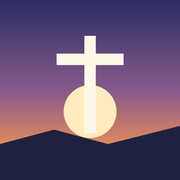
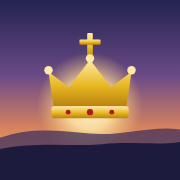
Apariencia: imágenes según el tiempo litúrgico y más livianas, color del día, modo oración, cierre sereno, Contempla más ligero, ícono nuevo y pantalla de arranque
Para volver a la versión anterior: git checkout 2e7be96 -- index.html sw.js manifest.webmanifest icon-180.png icon-192.png icon-512.png

Claude-Session: https://claude.ai/code/session_01KMgNYnLWM8dGLysxidr2UX

Changed region(s): [[0.0, 0.1667, 1.0, 0.8333]]

diff --git a/index.html b/index.html
@@ -1,4 +1,4 @@
-<!doctype html><html><head><meta name="apple-mobile-web-app-capable" content="yes"><meta name="mobile-web-app-capable" content="yes"><meta name="apple-mobile-web-app-status-bar-style" content="default"><meta name="apple-mobile-web-app-title" content="Venga tu Reino"><meta name="theme-color" content="#FFFFFF"><link rel="manifest" href="manifest.webmanifest"><link rel="apple-touch-icon" href="icon-180.png"><link rel="icon" href="icon-192.png"><title>Venga tu Reino</title><meta charset=utf8><meta name="color-scheme" content="light dark"><meta name=viewport content="width=device-width,initial-scale=1,viewport-fit=cover"><style>:root{color-scheme:light dark;box-sizing:border-box;padding-top:env(safe-area-inset-top,0px);padding-bottom:env(safe-area-inset-bottom,0px)}html{scroll-padding-top:env(safe-area-inset-top,0px)}body{margin:0;padding:0;font:14px -apple-system,BlinkMacSystemFont,sans-serif;background:#fff;color:#000}img{max-width:100%}[hidden]:not([hidden=until-found i]){display:none!important}</style></head><body>
+<!doctype html><html><head><meta name="apple-mobile-web-app-capable" content="yes"><meta name="mobile-web-app-capable" content="yes"><meta name="apple-mobile-web-app-status-bar-style" content="default"><meta name="apple-mobile-web-app-title" content="Venga tu Reino"><meta name="theme-color" content="#FFFFFF"><link rel="manifest" href="manifest.webmanifest"><link rel="apple-touch-icon" href="icon-180.png"><link rel="apple-touch-startup-image" media="(device-width: 375px) and (device-height: 667px) and (-webkit-device-pixel-ratio: 2) and (orientation: portrait)" href="splash/750x1334.png"><link rel="apple-touch-startup-image" media="(device-width: 414px) and (device-height: 896px) and (-webkit-device-pixel-ratio: 2) and (orientation: portrait)" href="splash/828x1792.png"><link rel="apple-touch-startup-image" media="(device-width: 375px) and (device-height: 812px) and (-webkit-device-pixel-ratio: 3) and (orientation: portrait)" href="splash/1125x2436.png"><link rel="apple-touch-startup-image" media="(device-width: 414px) and (device-height: 896px) and (-webkit-device-pixel-ratio: 3) and (orientation: portrait)" href="splash/1242x2688.png"><link rel="apple-touch-startup-image" media="(device-width: 390px) and (device-height: 844px) and (-webkit-device-pixel-ratio: 3) and (orientation: portrait)" href="splash/1170x2532.png"><link rel="apple-touch-startup-image" media="(device-width: 428px) and (device-height: 926px) and (-webkit-device-pixel-ratio: 3) and (orientation: portrait)" href="splash/1284x2778.png"><link rel="apple-touch-startup-image" media="(device-width: 393px) and (device-height: 852px) and (-webkit-device-pixel-ratio: 3) and (orientation: portrait)" href="splash/1179x2556.png"><link rel="apple-touch-startup-image" media="(device-width: 430px) and (device-height: 932px) and (-webkit-device-pixel-ratio: 3) and (orientation: portrait)" href="splash/1290x2796.png"><link rel="apple-touch-startup-image" media="(device-width: 402px) and (device-height: 874px) and (-webkit-device-pixel-ratio: 3) and (orientation: portrait)" href="splash/1206x2622.png"><link rel="apple-touch-startup-image" media="(device-width: 440px) and (device-height: 956px) and (-webkit-device-pixel-ratio: 3) and (orientation: portrait)" href="splash/1320x2868.png"><link rel="apple-touch-startup-image" media="(device-width: 420px) and (device-height: 912px) and (-webkit-device-pixel-ratio: 3) and (orientation: portrait)" href="splash/1260x2736.png"><link rel="icon" href="icon-192.png"><title>Venga tu Reino</title><meta charset=utf8><meta name="color-scheme" content="light dark"><meta name=viewport content="width=device-width,initial-scale=1,viewport-fit=cover"><style>:root{color-scheme:light dark;box-sizing:border-box;padding-top:env(safe-area-inset-top,0px);padding-bottom:env(safe-area-inset-bottom,0px)}html{scroll-padding-top:env(safe-area-inset-top,0px)}body{margin:0;padding:0;font:14px -apple-system,BlinkMacSystemFont,sans-serif;background:#fff;color:#000}img{max-width:100%}[hidden]:not([hidden=until-found i]){display:none!important}</style></head><body>
 <link rel="stylesheet" href="https://fonts.googleapis.com/css2?family=Marcellus&family=Literata:opsz,wght@7..72,400;7..72,600&display=swap">
 <style>
 /* Diseño «Crepúsculo de Barquisimeto»: lo único llamativo es el cielo de la portada, que cambia con la hora
@@ -245,7 +245,7 @@ summary:active{background:var(--soft);border-radius:16px}
 .ph .pi img{animation:phz 1.6s cubic-bezier(.2,.7,.2,1) both}
 .ph .pt>*{animation:phu .9s cubic-bezier(.2,.7,.2,1) both}
 .ph .pt>*:nth-child(2){animation-delay:.08s}.ph .pt>*:nth-child(3){animation-delay:.16s}.ph .pt>*:nth-child(4){animation-delay:.24s}
-@keyframes phz{from{opacity:0;scale:1.18}to{opacity:1;scale:1}}
+@keyframes phz{from{scale:1.18}to{scale:1}}
 @keyframes phu{from{opacity:0;translate:0 22px}to{opacity:1;translate:0 0}}
 }
 /* Minimalista: menos líneas, más aire */
@@ -337,6 +337,31 @@ body{font-size:calc(17px*var(--fz,1))}
 #sheet .sh b{font-family:var(--fd);font-weight:400;font-size:1.4rem}
 #sheet .sh .btn{min-height:42px;padding:6px 18px}
 @media (prefers-reduced-motion:no-preference){#sheet:not([hidden]) .sp{animation:shup .3s cubic-bezier(.2,.7,.2,1)}#sheet:not([hidden]) .sb{animation:shfd .25s ease-out}@keyframes shup{from{transform:translateY(100%)}to{transform:none}}@keyframes shfd{from{opacity:0}to{opacity:1}}}
+.ph .pi img,.fe img{opacity:0;transition:opacity .7s ease}
+.ph .pi img.ok,.fe img.ok{opacity:1}
+.ph,.fe{background:linear-gradient(165deg,color-mix(in srgb,var(--litc) 55%,#2a1a08) 0%,#3a0f12 55%,#1a1208 100%)}
+/* El color litúrgico del día en los acentos */
+nav.tabs button[aria-current="page"] svg{stroke:var(--litc)}
+nav.tabs button[aria-current="page"]::before{content:"";display:block;width:22px;height:3px;border-radius:2px;background:var(--litc);margin:-7px auto 4px}
+.card.tint{border-left-color:var(--litc)}
+.sec::before{background:linear-gradient(90deg,var(--litc) 0 60%,var(--vy) 60% 100%)}
+.vk,#prog{background:linear-gradient(90deg,var(--litc) 0 50%,var(--vy) 50% 100%)}
+#prog{background-size:24px 3px}
+.dots button.on,.bar i{background:var(--litc)}
+/* Modo oración: sin barra ni portada, letra más grande */
+.zen nav.tabs{transform:translateY(115%)}
+.zen #main>.seg{display:none}
+.zen #app{padding-top:8px}
+.zen .pager{min-height:calc(100vh - 150px);min-height:calc(100svh - 150px);border:0;padding:16px 4px;background:transparent}
+.zen .pager .pb{font-size:1.1em}
+.zenbar{display:flex;align-items:center;justify-content:space-between;margin:4px 2px 0}
+.zenbar .btn{min-height:40px;padding:4px 16px}
+/* Cierre sereno */
+.luz{position:fixed;inset:0;z-index:40;pointer-events:none;display:flex;align-items:center;justify-content:center}
+.luz i{position:absolute;width:70vmin;height:70vmin;border-radius:50%;background:radial-gradient(circle,rgba(255,236,170,.9) 0%,rgba(232,185,35,.35) 40%,transparent 70%);animation:luzi 2.2s ease-out forwards}
+.luz svg{position:absolute;width:90vmin;height:90vmin;fill:#E8B923;opacity:0;animation:luzr 2.2s ease-out forwards}
+@keyframes luzi{0%{transform:scale(.2);opacity:0}25%{opacity:1}100%{transform:scale(1.6);opacity:0}}
+@keyframes luzr{0%{transform:scale(.4) rotate(0);opacity:0}25%{opacity:.55}100%{transform:scale(1.3) rotate(25deg);opacity:0}}
 .aa.tm{right:64px;font-family:var(--fb);font-size:1.1rem}
 .aa{position:absolute;top:12px;right:14px;z-index:3;width:42px;height:42px;border-radius:50%;border:0;background:rgba(20,12,4,.32);color:#fff;font-family:var(--fd);font-size:1.02rem;display:flex;align-items:center;justify-content:center;-webkit-backdrop-filter:blur(6px);backdrop-filter:blur(6px)}
 .grp{display:flex;gap:8px;margin:10px 0 0}
@@ -852,7 +877,7 @@ function viewHoy(){
   const X=ok&&!viejo&&H.encuentro||{},E=ok?H.evangelio:null;
   const FD=fraseDia(t),frase=X.frase?X.frase.texto:(viejo||!E?FD[1]:'Evangelio según '+E.cita);
   const cita=X.frase?X.frase.cita:(viejo||!E?FD[0]:'');
-  const HK=Object.keys(FE),nvh=novenaHoy(t),dk=(nvh&&NOV_IMG[nvh.f.nov.id])||HK[((dayN()%HK.length)+HK.length)%HK.length];
+  const nvh=novenaHoy(t),dk=feHoy(t,nvh);
   let h=phHtml(dk,'<i class="dot"></i>'+esc(misaHoy().titulo)+' · '+esc(cap(fmt(t))),(X.frase||viejo||!E?'«'+esc(frase)+'»':esc(frase)),cita?esc(cita):'',true);
   const n=rachaN(),hoyOre=!!oreDays()[ymd(t)];
   h+='<div class="streak">'+semanaHtml()+'<span class="small mut">'+(n?n+(n===1?' día seguido':' días seguidos'):'Empieza hoy')+'</span></div>';
@@ -1362,6 +1387,13 @@ function viewIntenciones(){
 
 /* ===== Ajustes: letra, tema y copia de seguridad ===== */
 const FZ=[.9,1,1.1,1.2,1.32,1.45];
+/* Una luz suave que se abre y se apaga al terminar una oración (no aparece si el iPhone tiene «Reducir movimiento»). */
+function celebrar(){
+  if(RM()||document.querySelector('.luz'))return;
+  const d=document.createElement('div');d.className='luz';d.setAttribute('aria-hidden','true');
+  d.innerHTML='<i></i><svg viewBox="0 0 200 200">'+Array.from({length:16},(_,i)=>'<rect x="98.5" y="8" width="3" height="46" rx="1.5" transform="rotate('+(i*22.5)+' 100 100)"/>').join('')+'</svg>';
+  document.body.appendChild(d);setTimeout(()=>d.remove(),2300);
+}
 const ajAbierto=()=>{const e=$('#sheet');return !!e&&!e.hidden};
 function abrirAjustes(){
   let e=$('#sheet');
@@ -1576,7 +1608,7 @@ function viewEncPaso(){
   const P=pasosHoy(H,N),tot=P.length;
   if(state.plist)return '<div class="row" style="justify-content:flex-end"><button class="btn ghost" data-act="plist" data-v="0">Volver al modo paso a paso</button></div>'+P.map((p,i)=>step(i+1,p.t,p.b,i===0)).join('');
   let i=Math.max(0,Math.min(state.ps||0,tot));state.ps=i;
-  let h='<div class="pager">';
+  let h=(state.zen?'<div class="zenbar"><span class="small mut">Modo oración</span><button class="btn ghost" data-act="zen" data-v="0">Salir</button></div>':'')+'<div class="pager">';
   h+='<div class="ph"><div class="dots" role="group" aria-label="Pasos">'+P.map((p,j)=>'<button data-act="ps" data-v="'+j+'" class="'+(j===i?'on':j<i?'done':'')+'" aria-label="Paso '+(j+1)+': '+esc(p.t)+'"></button>').join('')+'</div><span class="small mut">'+(i<tot?(i+1)+' de '+tot:'Listo')+'</span></div>';
   if(i<tot){
     const p=P[i];
@@ -1585,10 +1617,11 @@ function viewEncPaso(){
   }else{
     const o=oreDays();if(!o[k]){o[k]=true;store.set('ore',o)}
     const n=rachaN();
+    setTimeout(celebrar,60);
     h+='<div class="pb fin">'+ic('check')+'<h2>Que venga su Reino a tu día</h2><p>Terminaste tu oración con el Evangelio de hoy.</p><p class="mut">'+(n===1?'Primer día de tu racha.':n+' días seguidos orando.')+'</p>'+semanaHtml().replace('class="week"','class="week" style="justify-content:center;margin:12px 0"')+'</div>'+
     '<div class="pn"><button class="btn ghost" data-act="ps" data-v="0">Repasar</button><button class="btn" data-act="go" data-v="enc" data-s="martes">Preparar el martes</button></div>';
   }
-  h+='</div><div class="row" style="justify-content:center"><button class="btn ghost" data-act="plist" data-v="1">Ver todos los pasos en una lista</button></div>';
+  h+='</div><div class="row" style="justify-content:center">'+(state.zen?'':'<button class="btn ghost" data-act="zen" data-v="1">Modo oración</button>')+'<button class="btn ghost" data-act="plist" data-v="1">Ver todos los pasos en una lista</button></div>';
   h+='<p class="note">Lo que escribes se guarda solo en este dispositivo. Las frases de santos y Papas llevan enlace a su fuente.</p>';
   return h;
 }
@@ -1839,6 +1872,7 @@ function viewRosPaso(){
   const P=rosPasos(state.rk),tot=P.length;let i=Math.max(0,Math.min(state.rs||0,tot));state.rs=i;
   let h='<div class="pager"><div class="small mut">'+(i===0?'Rosario guiado':i<tot?'Paso '+i+' de '+(tot-1):'¡Terminaste!')+'</div><div class="bar"><i style="width:'+Math.round(Math.min(i,tot-1)/(tot-1)*100)+'%"></i></div><div class="pb">';
   if(i===tot){
+    setTimeout(celebrar,60);
     h+='<div class="fin">'+ic('check')+'<h2>¡Rezaste el Rosario!</h2><p>María te acompaña. Lo que hoy meditaste se queda contigo.</p></div></div><div class="pn"><button class="btn ghost" data-act="rs" data-v="0">Empezar de nuevo</button><button class="btn" data-act="rdone">Marcar en mi rutina</button></div><p class="note" id="rmsg" style="text-align:center"></p></div>';
     return h;
   }
@@ -1975,11 +2009,11 @@ function renderNav(){
 }
 const FE={corazon:["https://upload.wikimedia.org/wikipedia/commons/thumb/1/16/CHRIST_PANTOCRATOR-SINAI%286th_Century%29.jpg/1920px-CHRIST_PANTOCRATOR-SINAI%286th_Century%29.jpg", "«Yo soy el camino, la verdad y la vida».", "Jn 14,6", "Cristo Pantocrátor, monasterio de Santa Catalina del Sinaí (s. VI) · dominio público", 0.34],getsemani:["https://upload.wikimedia.org/wikipedia/commons/thumb/5/53/Gethsemane_Carl_Bloch.jpg/1920px-Gethsemane_Carl_Bloch.jpg", "«No se haga mi voluntad, sino la tuya».", "Lc 22,42", "Carl Bloch, Getsemaní · dominio público", 0.45],resurreccion:["https://upload.wikimedia.org/wikipedia/commons/thumb/e/ef/Rafael_-_ressureicaocristo01.jpg/1920px-Rafael_-_ressureicaocristo01.jpg", "«No está aquí: ha resucitado, como había dicho».", "Mt 28,6", "Rafael, La Resurrección de Cristo · dominio público", 0.08],virgen:["https://upload.wikimedia.org/wikipedia/commons/thumb/1/14/Vierge_en_oraison_%28Il_Sassoferrato%29.jpg/1920px-Vierge_en_oraison_%28Il_Sassoferrato%29.jpg", "«He aquí la esclava del Señor; hágase en mí según tu palabra».", "Lc 1,38", "Sassoferrato, La Virgen en oración · dominio público", 0.37],inmaculada:["https://upload.wikimedia.org/wikipedia/commons/thumb/3/3b/La_Inmaculada_de_Soult%2C_1678%2C_Bartolom%C3%A9_E._Murillo.jpg/1920px-La_Inmaculada_de_Soult%2C_1678%2C_Bartolom%C3%A9_E._Murillo.jpg", "«Alégrate, llena de gracia, el Señor está contigo».", "Lc 1,28", "Murillo, Inmaculada de Soult (1678) · dominio público", 0.21],pieta:["https://upload.wikimedia.org/wikipedia/commons/thumb/5/5e/Michelangelo%27s_Piet%C3%A0_Saint_Peter%27s_Basilica_Vatican_City.jpg/1920px-Michelangelo%27s_Piet%C3%A0_Saint_Peter%27s_Basilica_Vatican_City.jpg", "«Junto a la cruz de Jesús estaba su madre».", "Jn 19,25", "La Piedad de Miguel Ángel, Basílica de San Pedro · foto de dominio público (CC0)", 0.25],cena:["https://upload.wikimedia.org/wikipedia/commons/thumb/0/08/Leonardo_da_Vinci_%281452-1519%29_-_The_Last_Supper_%281495-1498%29.jpg/3840px-Leonardo_da_Vinci_%281452-1519%29_-_The_Last_Supper_%281495-1498%29.jpg", "«Haced esto en memoria mía».", "Lc 22,19", "Leonardo da Vinci, La Última Cena · dominio público", 0.45],basilica:["https://upload.wikimedia.org/wikipedia/commons/thumb/f/f5/Basilica_di_San_Pietro_in_Vaticano_September_2015-1a.jpg/3840px-Basilica_di_San_Pietro_in_Vaticano_September_2015-1a.jpg", "«Tú eres Pedro, y sobre esta piedra edificaré mi Iglesia».", "Mt 16,18", "Basílica de San Pedro · foto: Alvesgaspar, CC BY-SA 4.0", 0.5],plaza:["https://upload.wikimedia.org/wikipedia/commons/thumb/d/d6/St_Peter%27s_Square%2C_Vatican_City_-_April_2007.jpg/3840px-St_Peter%27s_Square%2C_Vatican_City_-_April_2007.jpg", "«Id por todo el mundo y anunciad el Evangelio».", "Mc 16,15", "Plaza de San Pedro · foto: Diliff, CC BY-SA 3.0", 0.5]};
 const FE_TAB=new Proxy({},{get:(o,tab)=>FE_POOL[tab]?FE_POOL[tab].filter(k=>k!==feDia(tab)):undefined});
-function feHtml(k){const f=FE[k];return '<figure class="fe" aria-label="'+esc(f[3])+'"><img style="object-position:50% '+(f[4]*100)+'%" src="'+f[0]+'" alt="" loading="lazy" decoding="async"><figcaption><span class="vk"></span><p class="fe-t">'+esc(f[1])+'</p><span class="fe-c">'+esc(f[2])+'</span></figcaption><small class="fe-cr">'+esc(f[3])+'</small></figure>'}
+function feHtml(k){const f=FE[k];return '<figure class="fe" aria-label="'+esc(f[3])+'">'+feImg(f,true)+'<figcaption><span class="vk"></span><p class="fe-t">'+esc(f[1])+'</p><span class="fe-c">'+esc(f[2])+'</span></figcaption><small class="fe-cr">'+esc(f[3])+'</small></figure>'}
 function storyHtml(ks){const W=t=>t.split(' ').map((w,i)=>'<span class="w" style="--i:'+i+'">'+esc(w)+'</span>').join(' ');return '<section class="story" style="height:'+(ks.length*110+60)+'vh" aria-label="Contempla"><div class="stick"><div class="hd2">Contempla</div><div class="sol"><div class="disc"></div><svg viewBox=\"0 0 100 100\" aria-hidden=\"true\"><defs><linearGradient id=\"rg\" x1=\"0\" x2=\"1\"><stop offset=\"0\" stop-color=\"#FFF3C4\"/><stop offset=\"1\" stop-color=\"#E8B923\" stop-opacity=\"0\"/></linearGradient></defs><path d=\"M50 50 L98.0 50.0\" stroke=\"url(#rg)\" stroke-width=\"0.6\"/><path d=\"M50 50 L97.3 58.3\" stroke=\"url(#rg)\" stroke-width=\"1.2\"/><path d=\"M50 50 L95.1 66.4\" stroke=\"url(#rg)\" stroke-width=\"0.6\"/><path d=\"M50 50 L91.6 74.0\" stroke=\"url(#rg)\" stroke-width=\"1.2\"/><path d=\"M50 50 L86.8 80.9\" stroke=\"url(#rg)\" stroke-width=\"0.6\"/><path d=\"M50 50 L80.9 86.8\" stroke=\"url(#rg)\" stroke-width=\"1.2\"/><path d=\"M50 50 L74.0 91.6\" stroke=\"url(#rg)\" stroke-width=\"0.6\"/><path d=\"M50 50 L66.4 95.1\" stroke=\"url(#rg)\" stroke-width=\"1.2\"/><path d=\"M50 50 L58.3 97.3\" stroke=\"url(#rg)\" stroke-width=\"0.6\"/><path d=\"M50 50 L50.0 98.0\" stroke=\"url(#rg)\" stroke-width=\"1.2\"/><path d=\"M50 50 L41.7 97.3\" stroke=\"url(#rg)\" stroke-width=\"0.6\"/><path d=\"M50 50 L33.6 95.1\" stroke=\"url(#rg)\" stroke-width=\"1.2\"/><path d=\"M50 50 L26.0 91.6\" stroke=\"url(#rg)\" stroke-width=\"0.6\"/><path d=\"M50 50 L19.1 86.8\" stroke=\"url(#rg)\" stroke-width=\"1.2\"/><path d=\"M50 50 L13.2 80.9\" stroke=\"url(#rg)\" stroke-width=\"0.6\"/><path d=\"M50 50 L8.4 74.0\" stroke=\"url(#rg)\" stroke-width=\"1.2\"/><path d=\"M50 50 L4.9 66.4\" stroke=\"url(#rg)\" stroke-width=\"0.6\"/><path d=\"M50 50 L2.7 58.3\" stroke=\"url(#rg)\" stroke-width=\"1.2\"/><path d=\"M50 50 L2.0 50.0\" stroke=\"url(#rg)\" stroke-width=\"0.6\"/><path d=\"M50 50 L2.7 41.7\" stroke=\"url(#rg)\" stroke-width=\"1.2\"/><path d=\"M50 50 L4.9 33.6\" stroke=\"url(#rg)\" stroke-width=\"0.6\"/><path d=\"M50 50 L8.4 26.0\" stroke=\"url(#rg)\" stroke-width=\"1.2\"/><path d=\"M50 50 L13.2 19.1\" stroke=\"url(#rg)\" stroke-width=\"0.6\"/><path d=\"M50 50 L19.1 13.2\" stroke=\"url(#rg)\" stroke-width=\"1.2\"/><path d=\"M50 50 L26.0 8.4\" stroke=\"url(#rg)\" stroke-width=\"0.6\"/><path d=\"M50 50 L33.6 4.9\" stroke=\"url(#rg)\" stroke-width=\"1.2\"/><path d=\"M50 50 L41.7 2.7\" stroke=\"url(#rg)\" stroke-width=\"0.6\"/><path d=\"M50 50 L50.0 2.0\" stroke=\"url(#rg)\" stroke-width=\"1.2\"/><path d=\"M50 50 L58.3 2.7\" stroke=\"url(#rg)\" stroke-width=\"0.6\"/><path d=\"M50 50 L66.4 4.9\" stroke=\"url(#rg)\" stroke-width=\"1.2\"/><path d=\"M50 50 L74.0 8.4\" stroke=\"url(#rg)\" stroke-width=\"0.6\"/><path d=\"M50 50 L80.9 13.2\" stroke=\"url(#rg)\" stroke-width=\"1.2\"/><path d=\"M50 50 L86.8 19.1\" stroke=\"url(#rg)\" stroke-width=\"0.6\"/><path d=\"M50 50 L91.6 26.0\" stroke=\"url(#rg)\" stroke-width=\"1.2\"/><path d=\"M50 50 L95.1 33.6\" stroke=\"url(#rg)\" stroke-width=\"0.6\"/><path d=\"M50 50 L97.3 41.7\" stroke=\"url(#rg)\" stroke-width=\"1.2\"/></svg></div>'+ks.map((k,i)=>{const f=FE[k];return '<div class="ly"><div class="pic"><img data-fy="'+f[4]+'" src="'+f[0]+'" alt="" loading="lazy" decoding="async"></div><div class="cap"><span class="vk"></span><p class="fe-t">'+W(f[1])+'</p><span class="fe-c">'+esc(f[2])+'</span><p class="small" style="opacity:.7;margin-top:10px">'+esc(f[3])+'</p></div></div>'}).join('')+'<div class="pips">'+ks.map((k,i)=>'<i'+(i===0?' class="on"':'')+'></i>').join('')+'</div></div></section>'}
 function decorate(){
   const m=$('#main');if(!m)return;
-  if(state.tab==='hoy'){m.insertAdjacentHTML('beforeend',storyHtml(['corazon','virgen','basilica']));return}
+  if(state.tab==='hoy'){const a=feHoy(new Date(),novenaHoy(new Date())),K=Object.keys(FE),o=K.filter(x=>x!==a);m.insertAdjacentHTML('beforeend',feHtml(o[((dayN()%o.length)+o.length)%o.length]));return}
   const L=FE_TAB[state.tab];if(!L||m.querySelector('.pager,.gnav'))return;
   const k=Math.max(0,(SUBS[state.tab]||[]).findIndex(x=>x[0]===state.sub[state.tab]));
   const secs=m.querySelectorAll(':scope>h2.sec');
@@ -2027,9 +2061,29 @@ const FE_POOL={enc:['getsemani','corazon','resurreccion','cena'],misa:['cena','b
 const FE_TIT={enc:'Encuentro con Cristo',misa:'La Santa Misa',orar:'Orar',apr:'Aprender la fe',apo:'Apóstol',dia:'Mi día con Dios'};
 const NOV_IMG={cr:'corazon',mis:'corazon',inm:'inmaculada',nav:'virgen',pen:'basilica',scj:'corazon',pastora:'virgen',coro:'virgen',asun:'inmaculada',jose:'basilica'};
 const dayN=()=>{const t=new Date();return Math.floor((new Date(t.getFullYear(),t.getMonth(),t.getDate())-new Date(2026,0,1))/864e5)};
-function feDia(tab){const P=FE_POOL[tab]||['basilica'];return P[((dayN()%P.length)+P.length)%P.length]}
+/* Imágenes según el tiempo litúrgico: en los tiempos fuertes todas las portadas salen de su grupo. */
+const FE_TEMP={Adviento:['virgen','inmaculada'],Navidad:['virgen','inmaculada','corazon'],Cuaresma:['getsemani','pieta','cena'],'Triduo Pascual':['getsemani','pieta','cena'],Pascua:['resurreccion','corazon','basilica']};
+const temporada=()=>FE_TEMP[liturgia(new Date()).tiempo]||null;
+const TAB_I={enc:0,misa:1,orar:2,apr:3,apo:4,dia:5};
+function feDia(tab){const T=temporada();if(T)return T[((dayN()+(TAB_I[tab]||0))%T.length+T.length)%T.length];const P=FE_POOL[tab]||['basilica'];return P[((dayN()%P.length)+P.length)%P.length]}
+/* La imagen de la portada de Hoy: novena en curso, fiesta grande, tiempo litúrgico o rotación. */
+function feHoy(t,nvh){
+  if(nvh&&NOV_IMG[nvh.f.nov.id])return NOV_IMG[nvh.f.nov.id];
+  const ti=(misaHoy().titulo||'')+' '+(liturgia(t).titulo||'');
+  if(/Rey del Universo|Sagrado Coraz|Transfiguraci|Santísima Trinidad/i.test(ti))return 'corazon';
+  if(/Inmaculada|Asunci|Madre de Dios|Coromoto|Divina Pastora|Guadalupe|Rosario|Virgen|Santa María/i.test(ti))return 'inmaculada';
+  if(/Pedro|Pablo|Letrán|basílica/i.test(ti))return 'basilica';
+  if(/Resurrecci|Pascua|Ascensi|Pentecost/i.test(ti))return 'resurreccion';
+  if(/Ramos|Viernes Santo|Pasi[oó]n/i.test(ti))return 'pieta';
+  if(/Jueves Santo|Corpus|Cuerpo y la Sangre/i.test(ti))return 'cena';
+  const T=temporada();if(T)return T[((dayN()%T.length)+T.length)%T.length];
+  const HK=Object.keys(FE);return HK[((dayN()%HK.length)+HK.length)%HK.length];
+}
+/* Versión liviana (1280 px) de cada pintura; si no carga, se usa la original. */
+const feSm=u=>u.replace(/\/(1920|3840)px-/,'/1280px-');
+const feImg=(f,lazy)=>'<img style="object-position:50% '+(f[4]*100)+'%" src="'+feSm(f[0])+'" data-o="'+f[0]+'" alt="" decoding="async"'+(lazy?' loading="lazy"':' fetchpriority="high"')+' onload="this.classList.add(\'ok\')" onerror="if(this.dataset.o&&this.src!==this.dataset.o){this.src=this.dataset.o}">';
 const FE_HERO=new Proxy({},{get:(o,tab)=>FE_TIT[tab]?[feDia(tab),FE_TIT[tab]]:undefined});
-function phHtml(k,kick,title,sub,big,mini){const f=FE[k];return '<header class="ph'+(big?' big':'')+(mini?' mini':'')+'"><button class="aa" data-act="aa" aria-label="Tamaño de letra, tema y copia de seguridad">Aa</button><button class="aa tm" data-act="tmq" aria-label="Cambiar entre modo claro y oscuro">'+(temaOscuro()?'☀':'☾')+'</button><div class="pi"><img style="object-position:50% '+(f[4]*100)+'%" src="'+f[0]+'" alt="" decoding="async" fetchpriority="high"></div><div class="glow"></div><div class="pt"><span class="vk"></span><div class="kick">'+kick+'</div><h1>'+title+'</h1>'+(sub?'<div class="sub">'+sub+'</div>':'')+'</div><small class="fe-cr">'+esc(f[3])+'</small></header>'}
+function phHtml(k,kick,title,sub,big,mini){const f=FE[k];return '<header class="ph'+(big?' big':'')+(mini?' mini':'')+'"><button class="aa" data-act="aa" aria-label="Tamaño de letra, tema y copia de seguridad">Aa</button><button class="aa tm" data-act="tmq" aria-label="Cambiar entre modo claro y oscuro">'+(temaOscuro()?'☀':'☾')+'</button><div class="pi">'+feImg(f)+'</div><div class="glow"></div><div class="pt"><span class="vk"></span><div class="kick">'+kick+'</div><h1>'+title+'</h1>'+(sub?'<div class="sub">'+sub+'</div>':'')+'</div><small class="fe-cr">'+esc(f[3])+'</small></header>'}
 let LAST=null;
 function render(keepScroll){
   stopSpeak();
@@ -2046,7 +2100,9 @@ function render(keepScroll){
   const tabChanged=!LAST||LAST.tab!==state.tab;
   LAST={tab:state.tab,key,sub:sub(state.tab)};
   {const n=navDe(state.tab);if(n.g)store.set('g_'+n.id,state.tab)}
-  $('#hd').innerHTML=viewHd();
+  const zen=!!state.zen&&state.tab==='enc'&&state.sub.enc==='paso'&&!state.plist;
+  document.documentElement.classList.toggle('zen',zen);
+  const hdh=viewHd();$('#hd').innerHTML=zen?'':hdh;
   $('#main').innerHTML=VIEWS[state.tab]();
   renderNav();
   if(tabChanged){const c=$('#tabs [aria-current="page"]');if(c)c.classList.add('pop')}
@@ -2134,7 +2190,9 @@ function speak(id,btn){
 document.addEventListener('click',e=>{
   const b=e.target.closest('[data-act]');if(!b)return;
   const a=b.dataset.act,v=b.dataset.v;
-  if(a==='tab'){const n=navDe(v);const w=(n.g&&n.id===v)?(state.tab&&n.g.includes(state.tab)?n.id:store.get('g_'+n.id,n.id)):v;state.tab=n.g&&n.g.includes(w)?w:v;store.set('tab',state.tab);render()}
+  if(a!=='ps'&&a!=='pray'&&a!=='speak'&&a!=='zen'&&a!=='aa'&&a!=='shx'&&a!=='tmq'&&a!=='fz'&&a!=='tema')state.zen=false;
+  if(a==='zen'){state.zen=v==='1';if(state.zen){state.tab='enc';state.sub.enc='paso';state.plist=false}render(true)}
+  else if(a==='tab'){const n=navDe(v);const w=(n.g&&n.id===v)?(state.tab&&n.g.includes(state.tab)?n.id:store.get('g_'+n.id,n.id)):v;state.tab=n.g&&n.g.includes(w)?w:v;store.set('tab',state.tab);render()}
   else if(a==='tab2'){state.tab=v;store.set('tab',v);store.set('g_'+navDe(v).id,v);render()}
   else if(a==='aa')abrirAjustes();
   else if(a==='shx')cerrarAjustes();
@@ -2163,12 +2221,12 @@ document.addEventListener('click',e=>{
   else if(a==='resetbox'){store.set('box',{});state.q=null;render(true)}
   else if(a==='speak')speak(v,b);
   else if(a==='yr'){state.year+=+v;render(true)}
-  else if(a==='exadone'){
+  else if(a==='exadone'){celebrar();
     const r=store.get('rut',{}),k=ymd(new Date());r[k]=r[k]||[];if(!r[k].includes('examen'))r[k].push('examen');store.set('rut',r);
     $('#examsg').textContent='Marcado en tu rutina de hoy. Que Dios te dé buen descanso.';
   }
   else if(a==='nov'){state.nov=v||null;if(state.tab!=='orar'||state.sub.orar!=='fie'){state.tab='orar';state.sub.orar='fie';store.set('tab','orar');store.set('sub',state.sub)}render()}
-  else if(a==='pray'){state.tab='enc';state.sub.enc='paso';state.ps=0;state.plist=false;store.set('tab','enc');store.set('sub',state.sub);render()}
+  else if(a==='pray'){state.zen=true;state.tab='enc';state.sub.enc='paso';state.ps=0;state.plist=false;store.set('tab','enc');store.set('sub',state.sub);render()}
   else if(a==='ps'){state.ps=Math.max(0,+v);render()}
   else if(a==='plist'){state.plist=v==='1';render()}
   else if(a==='gv'){state.gdir=+v;state.gi=(state.gi||0)+(+v);render()}
@@ -2235,6 +2293,7 @@ async function guardarDias(){
   if(Date.now()-diasT<36e5||!('caches' in window)||!navigator.serviceWorker||!navigator.serviceWorker.controller)return;
   diasT=Date.now();const t=new Date();
   for(let i=1;i<=8;i++){const u='dias/'+ymd(addDays(t,i))+'.js';try{if(!(await caches.match(u)))await fetch(u)}catch(e){}}
+  for(const k in FE){const u=feSm(FE[k][0]);try{if(!(await caches.match(u)))await fetch(u,{mode:'no-cors'})}catch(e){}}
 }
 async function nuevoDia(){state.day=ymd(new Date());state.year=new Date().getFullYear();state.nov=null;render();if(hoyViejo()){await cargarHoy();if(!hoyViejo())render(true)}diasT=0;guardarDias()}
 (function medianoche(){const t=new Date(),m=new Date(t.getFullYear(),t.getMonth(),t.getDate()+1,0,0,5);setTimeout(()=>{nuevoDia();medianoche()},m-t)})();

diff --git a/sw.js b/sw.js
@@ -1,7 +1,7 @@
 /* Venga tu Reino: funciona sin conexión. La app y sus textos se guardan en el teléfono.
    hoy.js (el Evangelio del día) se busca primero en internet y, si no hay, se usa el último guardado.
    dias/AAAA-MM-DD.js (los días preparados por adelantado) también se guardan, para que la app cambie de día sin internet. */
-const V='vtr-v13';
+const V='vtr-v14';
 const BASE=['./','index.html','hoy.js','manifest.webmanifest','icon-180.png','icon-192.png','icon-512.png'];
 self.addEventListener('install',e=>{e.waitUntil(caches.open(V).then(c=>c.addAll(BASE)).then(()=>self.skipWaiting()))});
 self.addEventListener('activate',e=>{e.waitUntil(caches.keys().then(k=>Promise.all(k.filter(x=>x!==V).map(x=>caches.delete(x)))).then(()=>self.clients.claim()))});
